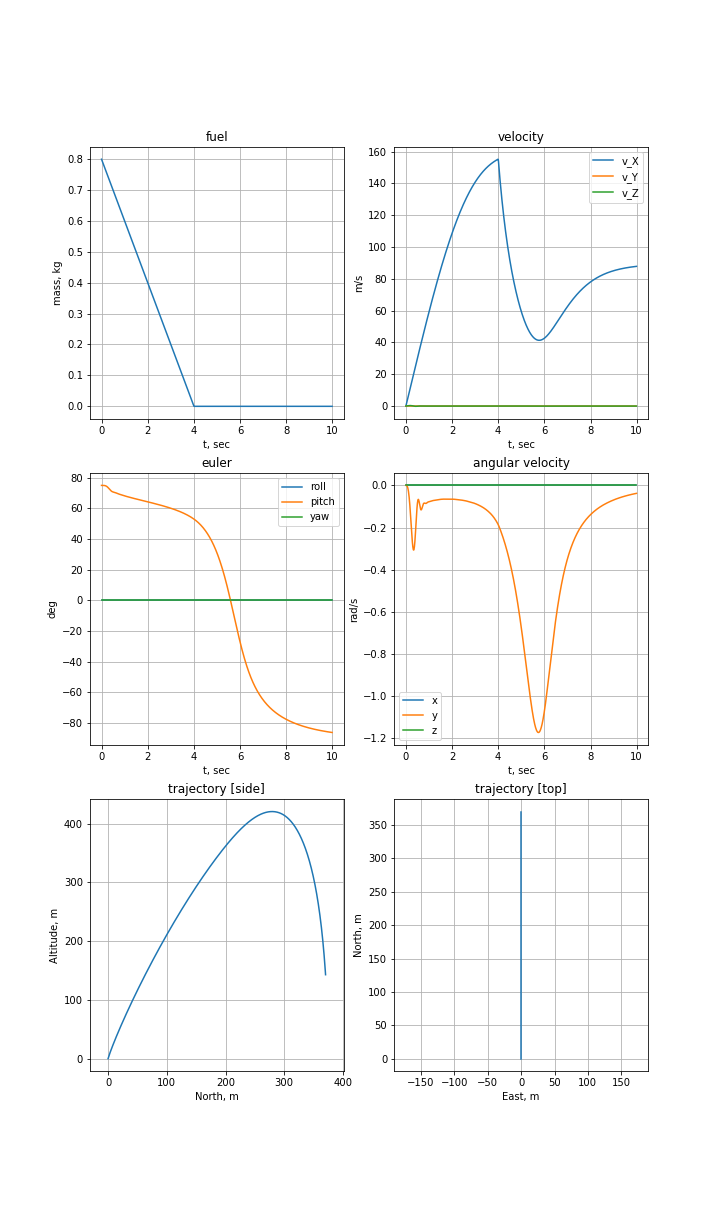
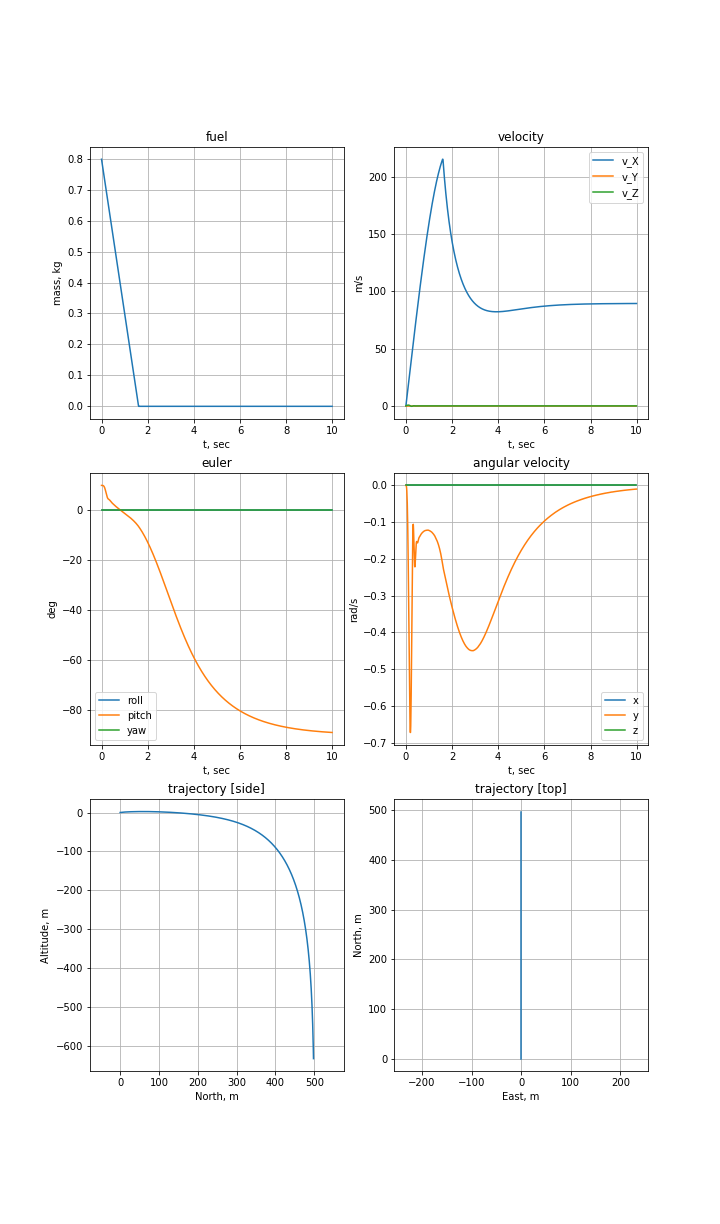
Update rocket simulation.

diff --git a/ros/src/f16/src/RocketPlugin/RocketPlugin.cc b/ros/src/f16/src/RocketPlugin/RocketPlugin.cc
@@ -32,7 +32,9 @@ GZ_REGISTER_MODEL_PLUGIN(RocketPlugin)
 
 ////////////////////////////////////////////////////////////////////////////////
 RocketPlugin::RocketPlugin():
-	_double_this(double_this_functions())
+	_double_this(double_this_functions()),
+	_rocket_aero_force(rocket_aero_force_functions()),
+	_rocket_aero_moment(rocket_aero_moment_functions())
 {
 	std::cout << "hello rocket plugin" << std::endl;
 	double input = 1;
